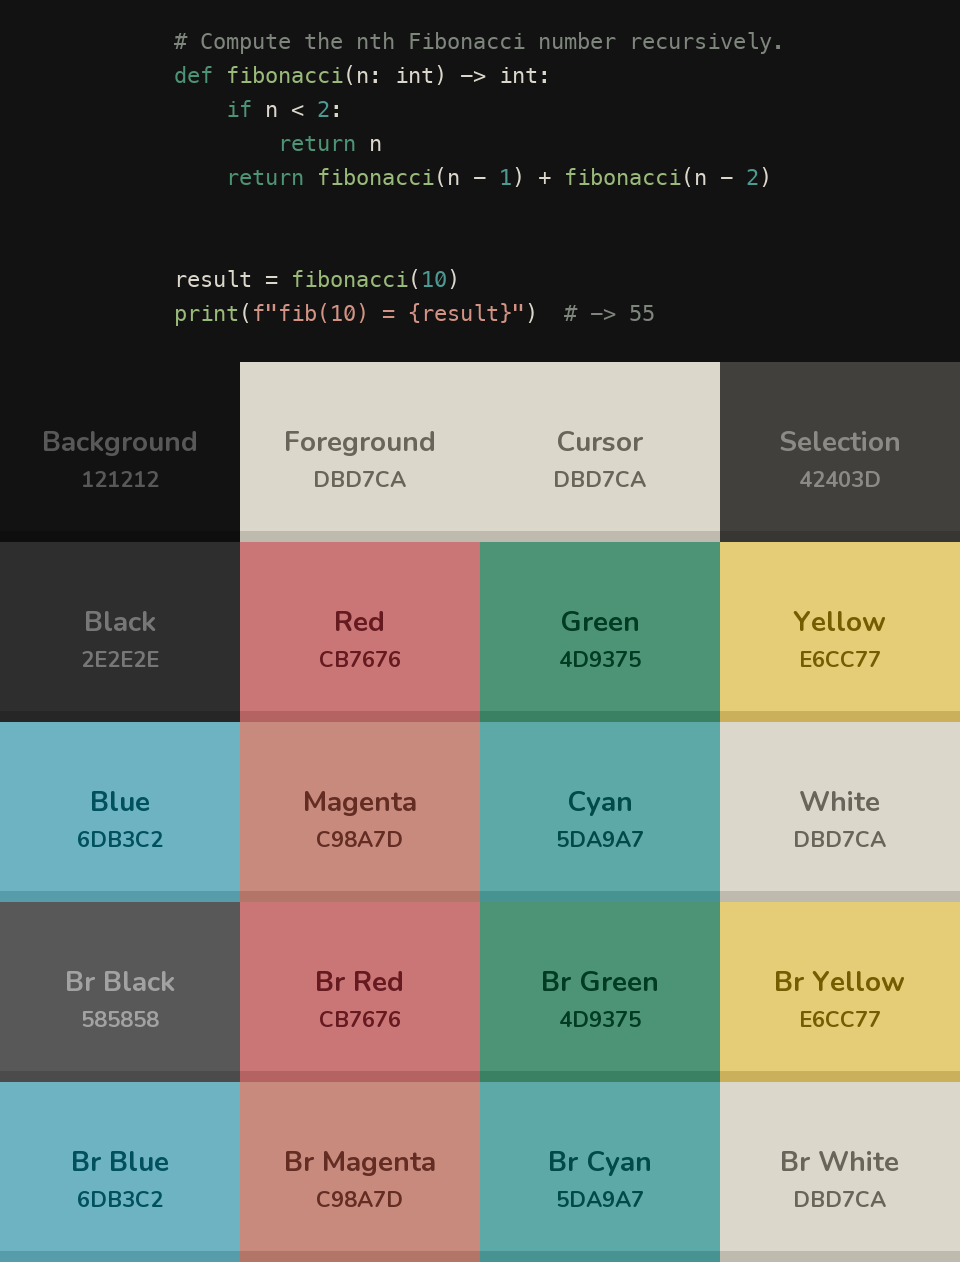
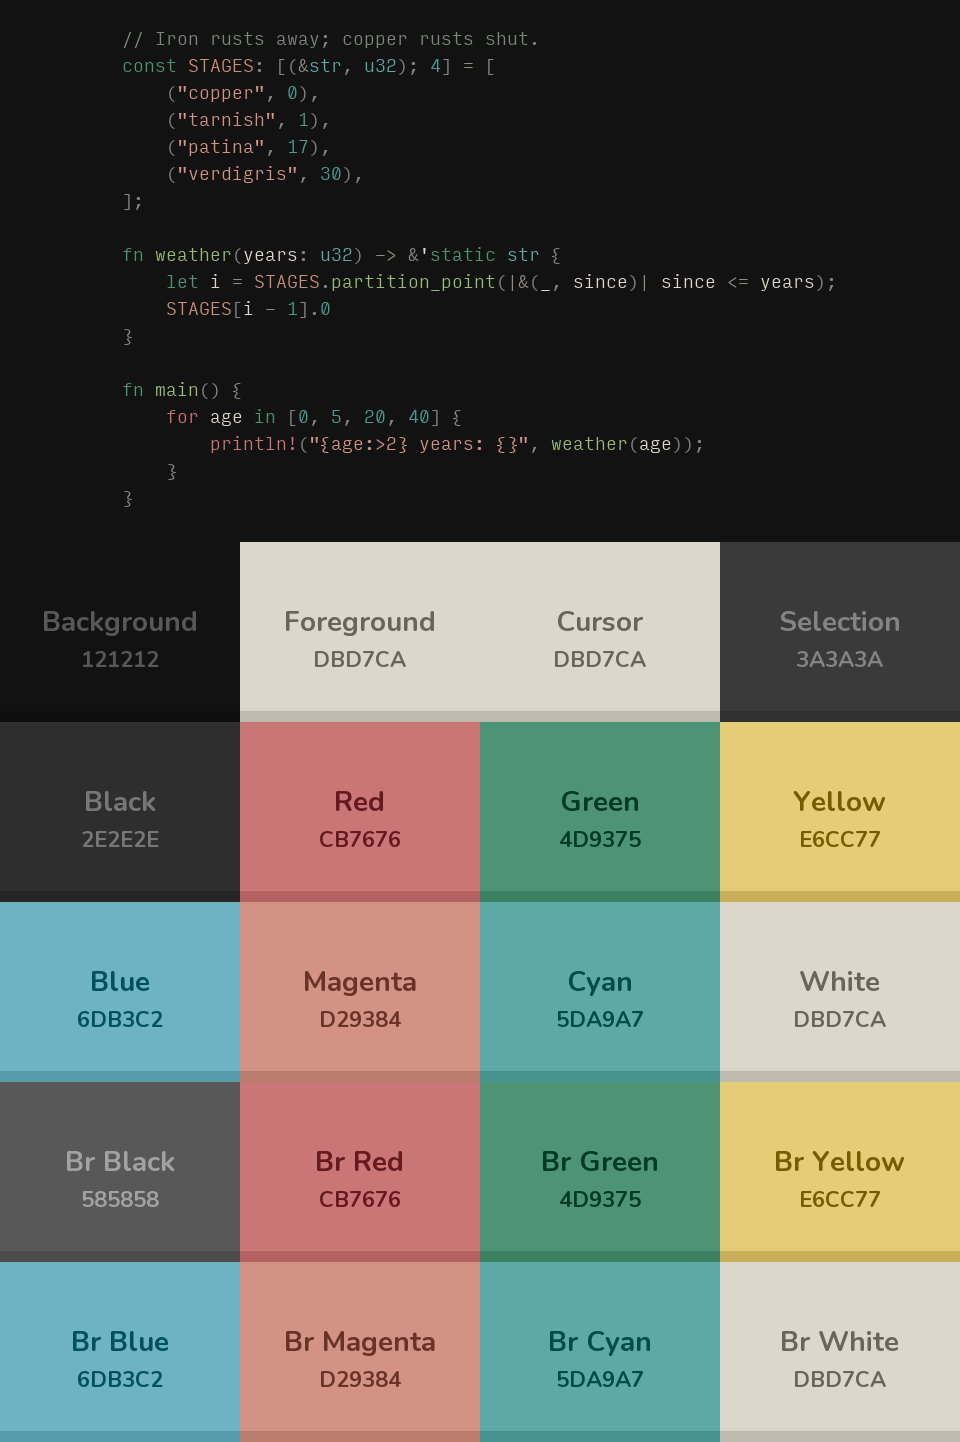
docs: re-render previews in Input, point the README at the palette
The preview sample is now a Rust snippet that computes the copper weathering
stages it is named after, which exercises eight syntax colours instead of the
Python Fibonacci sample's five. The code panel renders in Input rather than
Menlo; the palette card keeps Nunito.

Previews stay a local step. The fonts are not on a CI runner and vendoring a
TTF to make one match is a bad trade for six PNGs.

README: the porting note pointed contributors at the PALETTES dict, which is
what let the three targets drift. It now points at palette/*.toml and says not
to hand-edit generated files. Adds Yazi to the targets table.

diff --git a/tools/previews.py b/tools/previews.py
@@ -1,145 +1,144 @@
-"""Generate per-variant preview cards: a syntax-highlighted code panel
-stacked above the palette card, like Gruvbox-Material's preview grid.
+"""Render per-variant preview cards: a syntax-highlighted code panel stacked
+above the palette card.
+
+Local only. The code panel uses Input, the palette card uses Nunito, and
+neither font is present on a CI runner, so this is never wired into a workflow.
 
 Run:
-  uvx --from prev_gen python generate_previews.py
+  just previews
 
-Outputs (one pair per vscode/*.json variant):
-  assets/preview-<slug>.png
-  assets/palette-<slug>.png
+Outputs:
+  assets/preview-<slug>.png          committed, used by README and marketplace
+  patina-<slug>.yazi/preview.png     committed, used by the flavor README
+  preview-out/palette-<slug>.png     ignored, on demand
+  preview-out/strip-<slug>.png       ignored, on demand
 """
 
-import json
 import re
+import shutil
 from pathlib import Path
 
 from PIL import Image, ImageDraw, ImageFont
 from prev_gen import Color, Previewer, Settings
 
-from generate import PALETTES
+from generate import VARIANTS, load_keymap, load_palette, terminal_palette
+
+BASE = Path(__file__).resolve().parent.parent
 
 ANSI_NAMES = [
-    "Black",
-    "Red",
-    "Green",
-    "Yellow",
-    "Blue",
-    "Magenta",
-    "Cyan",
-    "White",
-    "Br Black",
-    "Br Red",
-    "Br Green",
-    "Br Yellow",
-    "Br Blue",
-    "Br Magenta",
-    "Br Cyan",
-    "Br White",
+    "Black", "Red", "Green", "Yellow", "Blue", "Magenta", "Cyan", "White",
+    "Br Black", "Br Red", "Br Green", "Br Yellow", "Br Blue", "Br Magenta",
+    "Br Cyan", "Br White",
 ]
 
 CODE = """\
-# Compute the nth Fibonacci number recursively.
-def fibonacci(n: int) -> int:
-    if n < 2:
-        return n
-    return fibonacci(n - 1) + fibonacci(n - 2)
+// Iron rusts away; copper rusts shut.
+const STAGES: [(&str, u32); 4] = [
+    ("copper", 0),
+    ("tarnish", 1),
+    ("patina", 17),
+    ("verdigris", 30),
+];
 
+fn weather(years: u32) -> &'static str {
+    let i = STAGES.partition_point(|&(_, since)| since <= years);
+    STAGES[i - 1].0
+}
 
-result = fibonacci(10)
-print(f"fib(10) = {result}")  # -> 55
+fn main() {
+    for age in [0, 5, 20, 40] {
+        println!("{age:>2} years: {}", weather(age));
+    }
+}
 """
 
-PY_KEYWORDS = (
-    "def return if else elif for while class import from as in not and or is "
-    "None True False lambda yield with try except raise pass break continue"
+CONTROL = "for if else match return while loop break continue".split()
+KEYWORDS = (
+    "const fn let mut pub use mod struct impl enum trait static ref where as in "
+    "self crate move dyn type unsafe"
 ).split()
+PRIMITIVES = "u8 u16 u32 u64 i8 i16 i32 i64 f32 f64 usize isize bool char str".split()
 
+# Order matters: macro before function, so println! is not read as a call.
 TOKEN_RE = re.compile(
-    r"(?P<comment>\#[^\n]*)"
-    r"|(?P<string>f?\"[^\"\n]*\"|f?\'[^\'\n]*\')"
-    rf"|(?P<keyword>\b(?:{'|'.join(PY_KEYWORDS)})\b)"
-    r"|(?P<number>\b\d+(?:\.\d+)?\b)"
+    r"(?P<comment>//[^\n]*)"
+    r"|(?P<string>\"[^\"\n]*\")"
+    rf"|(?P<control>\b(?:{'|'.join(CONTROL)})\b)"
+    rf"|(?P<keyword>\b(?:{'|'.join(KEYWORDS)})\b)"
+    rf"|(?P<type>\b(?:{'|'.join(PRIMITIVES)})\b|\b[A-Z][a-z]\w*\b)"
+    r"|(?P<constant>\b[A-Z][A-Z0-9_]{2,}\b)"
+    r"|(?P<macro>[A-Za-z_]\w*!)"
     r"|(?P<function>[A-Za-z_]\w*(?=\s*\())"
+    r"|(?P<number>\b\d+(?:\.\d+)?\b)"
+    r"|(?P<operator>[-+*/%<>=!&|]+)"
+    r"|(?P<punctuation>[(){}\[\];:,.])"
     r"|(?P<ws>\s+)"
     r"|(?P<plain>\S)"
 )
 
+# Palette token behind each highlight group.
+CODE_TOKENS = {
+    "comment": "comment",
+    "string": "string_plain",
+    "control": "red",
+    "keyword": "accent",
+    "type": "cyan",
+    "constant": "constant",
+    "macro": "red",
+    "function": "olive",
+    "number": "teal",
+    "operator": "operator",
+    "punctuation": "punctuation",
+    "plain": "fg",
+}
+
 FONT_CANDIDATES = [
+    str(Path.home() / "Library/Fonts/Input-Regular_(InputMonoNarrow-Light).ttf"),
     "/System/Library/Fonts/Menlo.ttc",
-    "/Library/Fonts/Menlo.ttc",
     "/System/Library/Fonts/Monaco.ttf",
-    "/System/Library/Fonts/SFNSMono.ttf",
 ]
+FONT_SIZE = 18
 
 
 def load_mono(size: int) -> ImageFont.FreeTypeFont:
-    for p in FONT_CANDIDATES:
+    for path in FONT_CANDIDATES:
         try:
-            return ImageFont.truetype(p, size)
+            return ImageFont.truetype(path, size)
         except OSError:
             continue
     return ImageFont.load_default()
 
 
-def find_scope(theme: dict, *needles: str) -> str | None:
-    for rule in theme.get("tokenColors", []):
-        scope = rule.get("scope", "")
-        if isinstance(scope, list):
-            scope = ", ".join(scope)
-        for n in needles:
-            if n in scope:
-                fg = rule.get("settings", {}).get("foreground")
-                if fg:
-                    return fg
-    return None
-
-
-def token_colors(theme: dict) -> dict[str, str]:
-    fg = theme["colors"]["editor.foreground"]
-    return {
-        "comment": find_scope(theme, "comment,") or fg,
-        "string": find_scope(theme, "string, ", '"string"') or fg,
-        "keyword": find_scope(theme, "keyword.control,", "keyword,") or fg,
-        "number": find_scope(theme, "constant.numeric") or fg,
-        "function": find_scope(theme, "entity.name.function") or fg,
-        "plain": fg,
-        "ws": fg,
-    }
-
-
-def render_code(theme: dict, target_width: int) -> Image.Image:
-    bg = theme["colors"]["editor.background"]
-    colors = token_colors(theme)
-    font_size = 22
-    font = load_mono(font_size)
-    line_height = int(font_size * 1.55)
+def render_code(tok: dict, target_width: int) -> Image.Image:
+    colors = {group: tok[name] for group, name in CODE_TOKENS.items()}
+    font = load_mono(FONT_SIZE)
+    line_height = int(FONT_SIZE * 1.55)
     pad_y = 28
 
     lines = CODE.splitlines()
     max_w = max(int(font.getlength(line)) for line in lines)
+    if max_w > target_width - 56:
+        raise SystemExit(
+            f"code panel is {max_w}px wide but the card is {target_width}px; "
+            f"lower FONT_SIZE or shorten the sample"
+        )
     canvas_h = line_height * len(lines) + 2 * pad_y
     pad_x = max(28, (target_width - max_w) // 2)
 
-    img = Image.new("RGB", (target_width, canvas_h), bg)
+    img = Image.new("RGB", (target_width, canvas_h), tok["bg"])
     draw = ImageDraw.Draw(img)
-
     x, y = pad_x, pad_y
     for line in lines:
         for m in TOKEN_RE.finditer(line):
-            kind = m.lastgroup
-            text = m.group()
-            if kind != "ws":
-                draw.text(
-                    (x, y), text, font=font, fill=colors.get(kind, colors["plain"])
-                )
-            x += font.getlength(text)
+            if m.lastgroup != "ws":
+                draw.text((x, y), m.group(), font=font, fill=colors[m.lastgroup])
+            x += font.getlength(m.group())
         y += line_height
         x = pad_x
-
     return img
 
 
-def render_palette(name: str, p: dict) -> Image.Image:
+def render_palette(name: str, pal: dict) -> Image.Image:
     settings = Settings(
         file_name="_unused",
         grid_width=240,
@@ -150,31 +149,25 @@ def render_palette(name: str, p: dict) -> Image.Image:
         hex_offset=28,
     )
     surfaces = [
-        Color(p["background"], "Background"),
-        Color(p["foreground"], "Foreground"),
-        Color(p["cursor_bg"], "Cursor"),
-        Color(p["selection_bg"], "Selection"),
+        Color(pal["background"], "Background"),
+        Color(pal["foreground"], "Foreground"),
+        Color(pal["foreground"], "Cursor"),
+        Color(pal["selection"], "Selection"),
     ]
     rows = [
-        [Color(p["ansi"][i + j], ANSI_NAMES[i + j]) for j in range(4)]
+        [Color(pal["ansi"][i + j], ANSI_NAMES[i + j]) for j in range(4)]
         for i in range(0, 16, 4)
     ]
-    grid = [settings, surfaces, *rows]
-    img = Previewer(grid, show=False, save=False)
-    return img.convert("RGB")
+    return Previewer([settings, surfaces, *rows], show=False, save=False).convert("RGB")
 
 
-def render_strip(name: str, p: dict, out_dir: Path) -> None:
-    """One row of rounded swatch blocks, the theme's unique accent colors.
-
-    Used in the README header. Deduped so variants whose bright ANSI
-    colors equal the normal ones do not show twins.
-    """
-    accents = p["ansi"][1:7] + p["ansi"][9:15]
+def render_strip(slug: str, pal: dict, out: Path) -> None:
+    """One row of rounded swatch blocks of the deduped accent colours."""
+    accents = pal["ansi"][1:7] + pal["ansi"][9:15]
     seen: set[str] = set()
     colors = [c for c in accents if not (c.lower() in seen or seen.add(c.lower()))]
 
-    scale = 2  # supersample for smooth corners
+    scale = 2
     block, gap, radius = 120 * scale, 30 * scale, 36 * scale
     w = len(colors) * block + (len(colors) - 1) * gap
     img = Image.new("RGBA", (w, block), (0, 0, 0, 0))
@@ -183,34 +176,31 @@ def render_strip(name: str, p: dict, out_dir: Path) -> None:
         x = i * (block + gap)
         draw.rounded_rectangle((x, 0, x + block, block), radius=radius, fill=c)
     img = img.resize((w // scale, block // scale), Image.Resampling.LANCZOS)
-    img.save(out_dir / f"strip-{name}.png")
-
-
-def composite(name: str, palette: dict, theme: dict, out_dir: Path) -> None:
-    pal = render_palette(name, palette)
-    code = render_code(theme, target_width=pal.width)
-    card = Image.new(
-        "RGB",
-        (pal.width, code.height + pal.height),
-        theme["colors"]["editor.background"],
-    )
-    card.paste(code, (0, 0))
-    card.paste(pal, (0, code.height))
-    card.save(out_dir / f"preview-{name}.png")
-    pal.save(out_dir / f"palette-{name}.png")
+    img.save(out / f"strip-{slug}.png")
 
 
 def main() -> None:
-    base = Path(__file__).parent
-    out = base / "assets"
-    out.mkdir(exist_ok=True)
-    for name, palette in PALETTES.items():
-        theme_path = base / "vscode" / f"{name}.json"
-        theme = json.loads(theme_path.read_text())
-        composite(name, palette, theme, out)
-        render_strip(name, palette, out)
-        print(f"  assets/preview-{name}.png")
-        print(f"  assets/strip-{name}.png")
+    km = load_keymap()
+    assets = BASE / "assets"
+    scratch = BASE / "preview-out"
+    assets.mkdir(exist_ok=True)
+    scratch.mkdir(exist_ok=True)
+
+    for slug in VARIANTS:
+        name, _, tok = load_palette(slug)
+        pal = terminal_palette(tok, km)
+
+        card = render_palette(name, pal)
+        code = render_code(tok, card.width)
+        out = Image.new("RGB", (card.width, code.height + card.height), tok["bg"])
+        out.paste(code, (0, 0))
+        out.paste(card, (0, code.height))
+
+        out.save(assets / f"preview-{slug}.png")
+        card.save(scratch / f"palette-{slug}.png")
+        render_strip(slug, pal, scratch)
+        shutil.copyfile(assets / f"preview-{slug}.png", BASE / f"{slug}.yazi" / "preview.png")
+        print(f"  assets/preview-{slug}.png  ({out.width}x{out.height})")
 
 
 if __name__ == "__main__":

diff --git a/README.md b/README.md
@@ -39,17 +39,30 @@ Also published on [Open VSX](https://open-vsx.org/extension/lmarkmann/patina-the
 
 ## Also available for
 
-| Editor / Terminal                  | Files                           |
-| ---------------------------------- | ------------------------------- |
-| [Ghostty](https://ghostty.org/)    | `terminals/ghostty/`            |
-| [Helix](https://helix-editor.com/) | `helix-editor/`                 |
-| [iTerm2](https://iterm2.com/)      | `contrib/iterm2-color-schemes/` |
+| Editor / Terminal                          | Files                           |
+| ------------------------------------------ | ------------------------------- |
+| [Ghostty](https://ghostty.org/)            | `terminals/ghostty/`            |
+| [Yazi](https://github.com/sxyazi/yazi)     | `patina-<variant>.yazi/`        |
+| [Helix](https://helix-editor.com/)         | `helix-editor/`                 |
+| [iTerm2](https://iterm2.com/)              | `contrib/iterm2-color-schemes/` |
 
-Copy the relevant files into your editor or terminal config directory.
+Copy the relevant files into your editor or terminal config directory. Yazi has a package manager, so it installs itself:
 
-PRs porting Patina to other apps are welcome. Use the `PALETTES` dict in `generate.py` as the source of truth for colors; community ports live here but aren't official release targets.
+```sh
+ya pkg add lmarkmann/patina-theme:patina-dark-soft
+```
 
-I also recommend using the [Input Font](https://input.djr.com/) together with the themes.
+Then in `~/.config/yazi/theme.toml`:
+
+```toml
+[flavor]
+dark = "patina-dark-soft"
+light = "patina-light"
+```
+
+PRs porting Patina to other apps are welcome. The colors live in `palette/*.toml`, one file per variant; everything else in this repo is generated from them by `tools/generate.py`, so please don't hand-edit a theme file.
+
+I also recommend the [Input Font](https://input.djr.com/) together with the themes; the previews above are set in it.
 
 ## License
 
